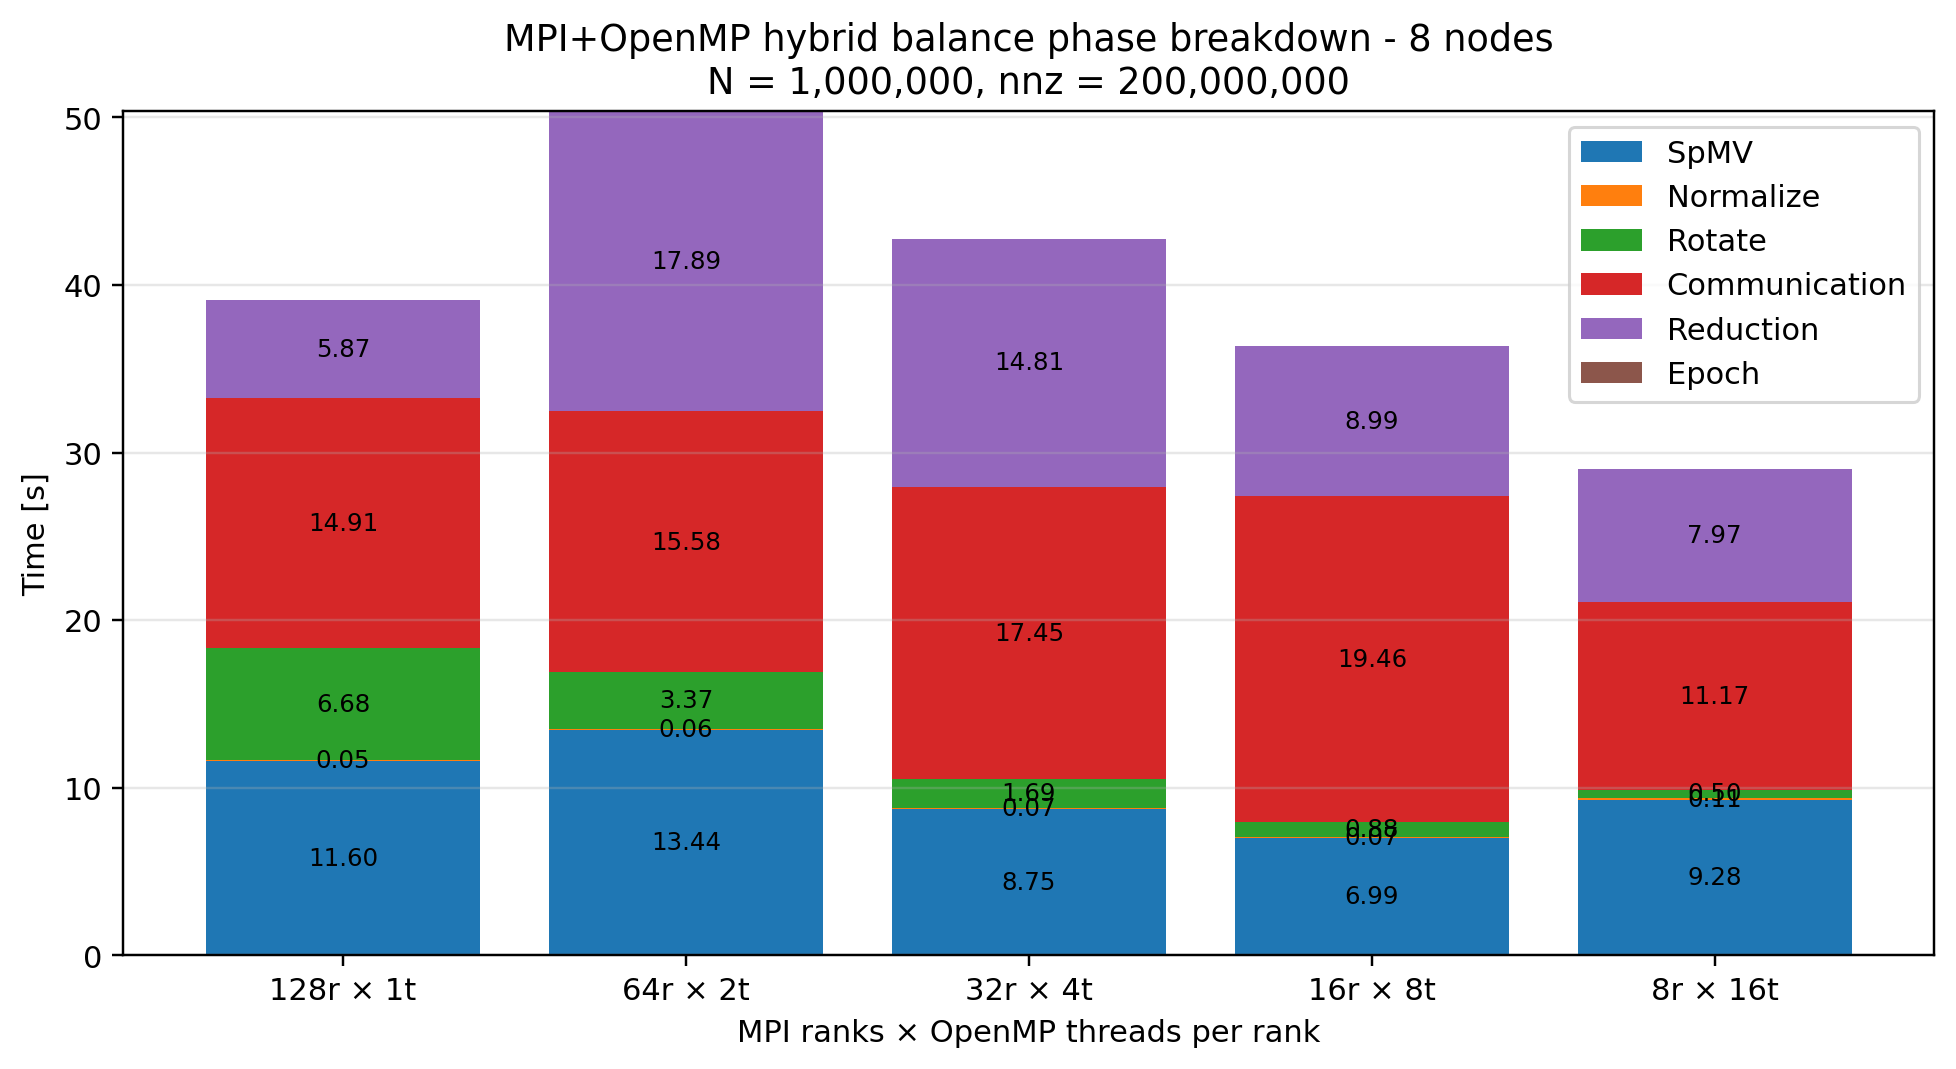
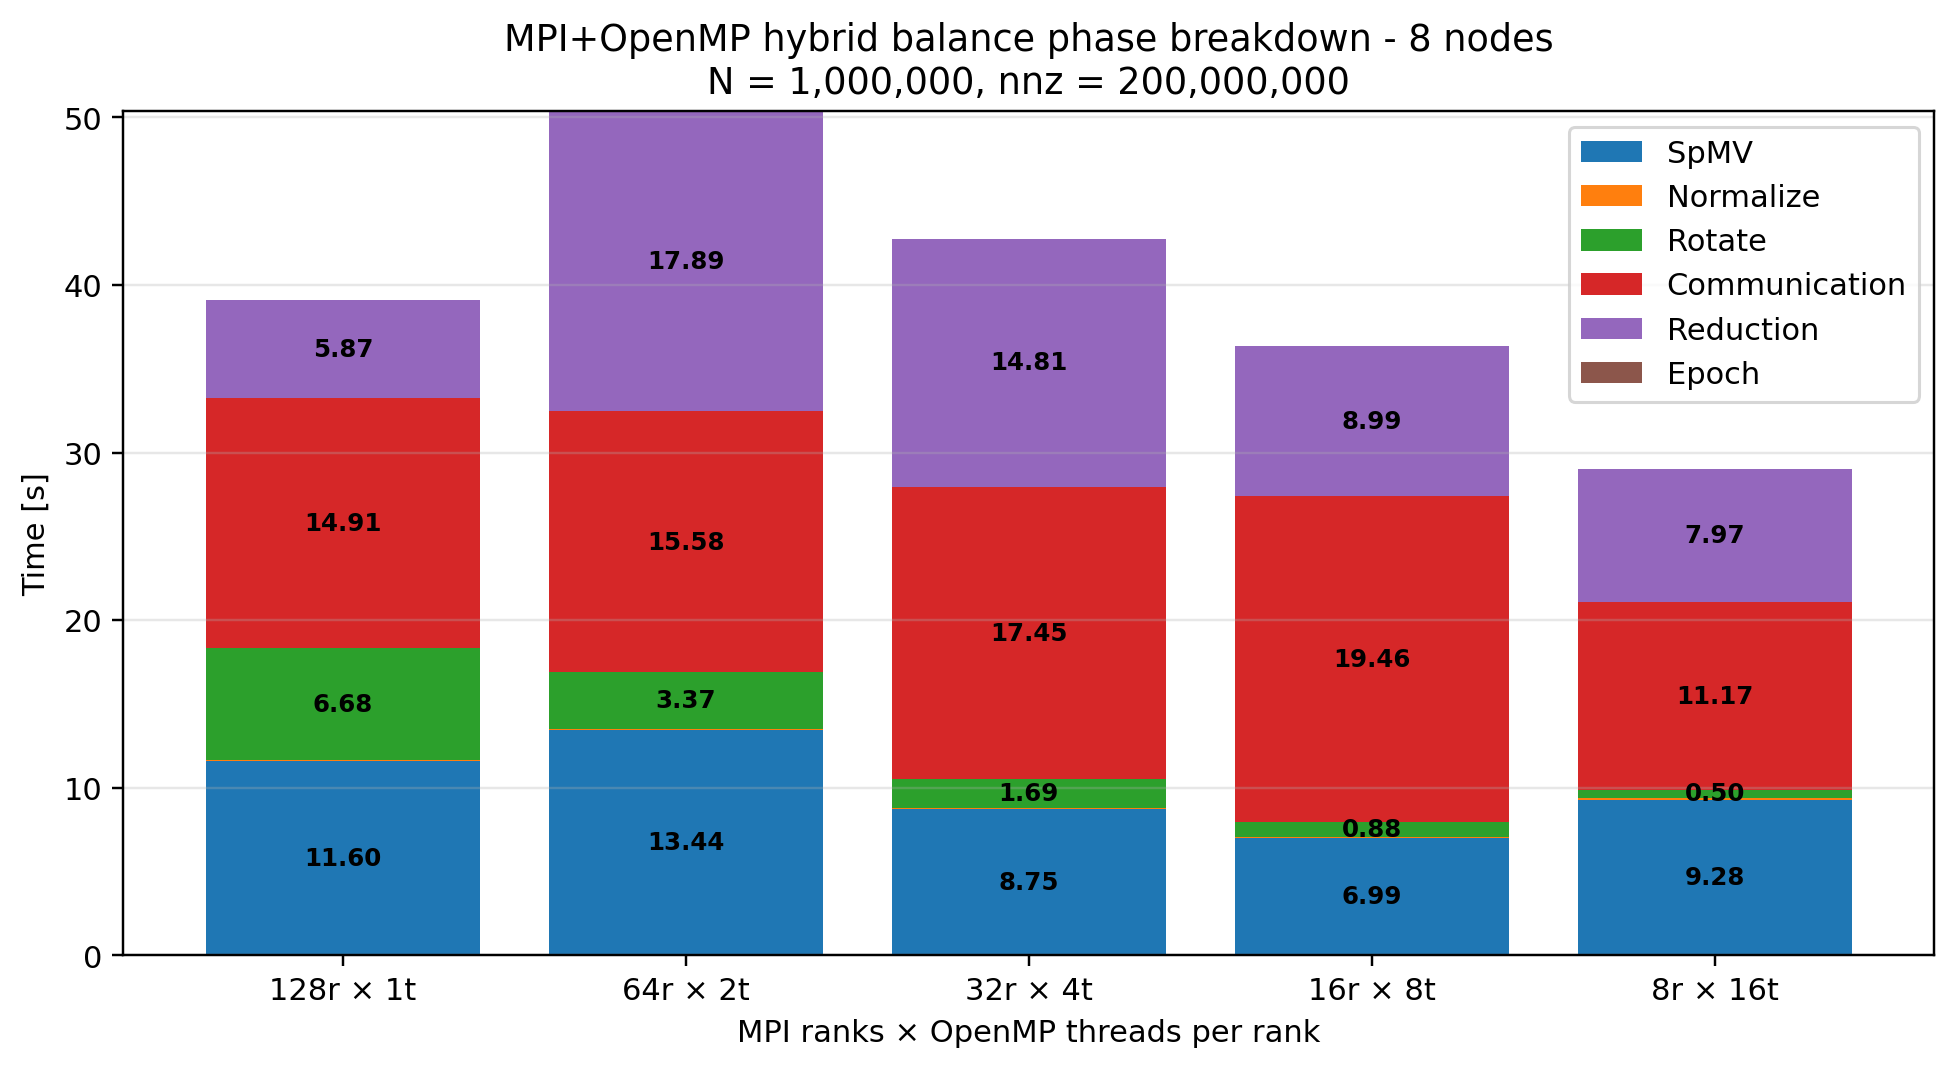
Remove unused experimental results

diff --git a/experiments/zplot_results.py b/experiments/zplot_results.py
@@ -20,7 +20,6 @@ MW = read("MPI_weak_scaling.csv").sort_values("nodes")
 MRT_RAW = read("MPI_rank_thread_sweep_raw.csv")
 MRT = read("MPI_rank_thread_sweep.csv")
 MHB = read("MPI_hybrid_balance_sweep.csv")
-SMALL = read("OPENMP_vs_THREAD_small_matrix_scaling.csv")
 MPI_PHASES = [
     ("spmv_med", "SpMV"),
     ("normalize_med", "Normalize"),
@@ -79,11 +78,12 @@ def mpi_hybrid_balance_breakdown(name, df):
         plt.bar_label(
             bars,
             labels=[
-                f"{value:.2f}" if value >= 0.03 else ""
+                f"{value:.2f}" if value >= 0.12 else ""
                 for value in values
             ],
             label_type="center",
-            fontsize=8
+            fontsize=8,
+            fontweight="bold"
         )
 
         bottom = bottom + d[col]
@@ -186,69 +186,6 @@ def weak_scaling_breakdown(name, title, df, label_threshold=0.45):
         bbox_inches="tight"
     )
 
-    plt.close()
-    
-def plot_small_irregular_scaling(name, df):
-    d = df[
-        (df["mode"] == "irregular") &
-        (df["threads"].isin([2, 4, 8]))
-    ].sort_values("threads").copy()
-
-    # Media dei 3 run
-    d["thread_mean"] = d[
-        ["thread_run1", "thread_run2", "thread_run3"]
-    ].mean(axis=1)
-
-    d["openmp_mean"] = d[
-        ["openmp_run1", "openmp_run2", "openmp_run3"]
-    ].mean(axis=1)
-
-    # Deviazione standard per le error bar
-    d["thread_std"] = d[
-        ["thread_run1", "thread_run2", "thread_run3"]
-    ].std(axis=1)
-
-    d["openmp_std"] = d[
-        ["openmp_run1", "openmp_run2", "openmp_run3"]
-    ].std(axis=1)
-
-    n = int(d["n"].iloc[0])
-    nz = int(d["nz"].iloc[0])
-
-    plt.figure(figsize=(8, 5))
-
-    plt.errorbar(
-        d["threads"],
-        d["thread_mean"],
-        yerr=d["thread_std"],
-        marker="o",
-        capsize=4,
-        label="C++ Threads"
-    )
-
-    plt.errorbar(
-        d["threads"],
-        d["openmp_mean"],
-        yerr=d["openmp_std"],
-        marker="o",
-        capsize=4,
-        label="OpenMP"
-    )
-
-    plt.xlabel("number of threads")
-    plt.ylabel("execution time [s]")
-
-    plt.title(
-        f"Strong scaling - irregular workload - "
-        f"N = {n:,}, nnz = {nz:,} - execution time"
-    )
-
-    plt.xticks([2, 4, 8])
-    plt.grid(True, alpha=0.3)
-    plt.legend()
-
-    plt.tight_layout()
-    plt.savefig(P / f"{name}.png", dpi=300)
     plt.close()
 
 # MPI rank/thread phase breakdown
@@ -425,11 +362,6 @@ weak_scaling_breakdown(
     "17_mpi_weak_scaling_breakdown",
     "MPI+OpenMP Weak Scalability Time Breakdown",
     MW, label_threshold=0.45
-)
-
-plot_small_irregular_scaling(
-    "threads_vs_openmp_small_irregular",
-    SMALL
 )
 
 mpi_rank_thread_breakdown(
